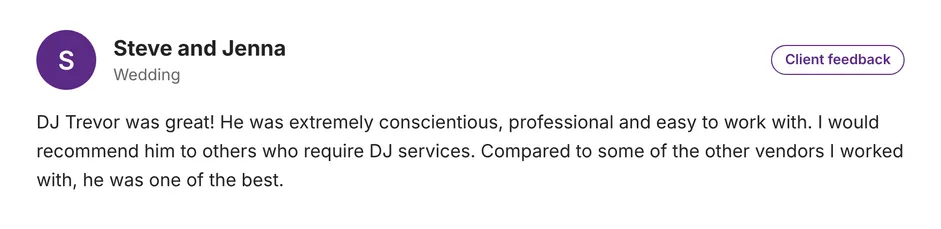
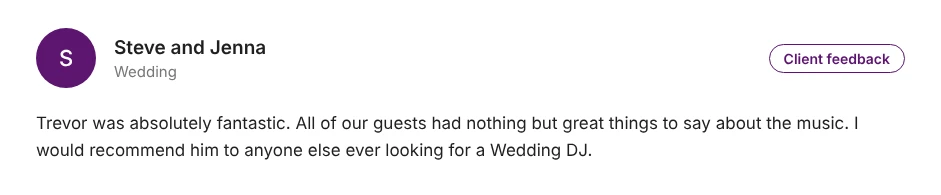
DJ Trevor page: use Steve and Jenna's own feedback text
Their card had Schari's wording; replaced with the message Steve sent.

Claude-Session: https://claude.ai/code/session_01XmGaww6WtWPkBt6bDqg7XF

diff --git a/trevor/index.html b/trevor/index.html
@@ -25,7 +25,7 @@ figcaption{display:flex;justify-content:space-between;align-items:center;padding
 .b-Feedback{background:#a21caf}html.embed header{padding:14px 12px 10px}html.embed h1{display:none}html.embed .sub{margin:0;font-size:13px}html.embed .yr{margin:22px 0 12px;font-size:22px;scroll-margin-top:90px}html.embed main{padding:6px 12px 16px}html.embed .c{margin-bottom:16px}html.embed footer{padding-bottom:16px}</style><script>if(window.parent!==window)document.documentElement.classList.add("embed")</script></head><body>
 <header><h1>DJ Trevor — Client Reviews</h1><p class="sub">2 reviews + 7 client feedback · June 2026 back to March 2025 · newest first</p></header>
 <div class="bar"><div class="in"><button class="on" data-f="all">All <b>9</b></button><button data-f="Knot">The Knot <b>1</b></button><button data-f="WeddingWire">WeddingWire <b>1</b></button><button data-f="Feedback">Client Feedback <b>7</b></button><div class="yrs"><a href="#y2026">2026</a><a href="#y2025">2025</a><a href="#yUndated">Undated</a></div></div></div>
-<main><h2 class="yr" id="y2026"><span>2026</span><small>2 reviews</small></h2><figure class="c" data-s="Knot"><figcaption><span class="b b-Knot">The Knot</span><time>Jun 22, 2026</time></figcaption><img loading="lazy" decoding="async" width="941" height="263" src="img/2026-06-22_Knot_Katherine-M.webp" alt="Review on The Knot, Jun 22, 2026"></figure><figure class="c" data-s="WeddingWire"><figcaption><span class="b b-WeddingWire">WeddingWire</span><time>Jun 13, 2026</time></figcaption><img loading="lazy" decoding="async" width="941" height="199" src="img/2026-06-13_WeddingWire_Abbie_93.webp" alt="Review on WeddingWire, Jun 13, 2026"></figure><h2 class="yr" id="y2025"><span>2025</span><small>5 reviews</small></h2><figure class="c" data-s="Feedback"><figcaption><span class="b b-Feedback">Client Feedback</span><time>Oct 18, 2025</time></figcaption><img loading="lazy" decoding="async" width="941" height="271" src="img/2025-10-18_Feedback_Leigha-and-Scott.webp" alt="Client feedback, Oct 18, 2025"></figure><figure class="c" data-s="Feedback"><figcaption><span class="b b-Feedback">Client Feedback</span><time>Oct 11, 2025</time></figcaption><img loading="lazy" decoding="async" width="941" height="222" src="img/2025-10-11_Feedback_Schari.webp" alt="Client feedback, Oct 11, 2025"></figure><figure class="c" data-s="Feedback"><figcaption><span class="b b-Feedback">Client Feedback</span><time>Sep 13, 2025</time></figcaption><img loading="lazy" decoding="async" width="941" height="229" src="img/2025-09-13_Feedback_Steve-and-Jenna.webp" alt="Client feedback, Sep 13, 2025"></figure><figure class="c" data-s="Feedback"><figcaption><span class="b b-Feedback">Client Feedback</span><time>Jun 21, 2025</time></figcaption><img loading="lazy" decoding="async" width="941" height="222" src="img/2025-06-21_Feedback_Peter-and-Gabrielle.webp" alt="Client feedback, Jun 21, 2025"></figure><figure class="c" data-s="Feedback"><figcaption><span class="b b-Feedback">Client Feedback</span><time>Mar 22, 2025</time></figcaption><img loading="lazy" decoding="async" width="941" height="287" src="img/2025-03-22_Feedback_Thomie.webp" alt="Client feedback, Mar 22, 2025"></figure><h2 class="yr" id="yUndated"><span>Undated</span><small>2 items</small></h2><figure class="c" data-s="Feedback"><figcaption><span class="b b-Feedback">Client Feedback</span><time>Date not listed</time></figcaption><img loading="lazy" decoding="async" width="941" height="200" src="img/undated_Feedback_Sonia-and-Zackary-Reagan.webp" alt="Client feedback, Date not listed"></figure><figure class="c" data-s="Feedback"><figcaption><span class="b b-Feedback">Client Feedback</span><time>Date not listed</time></figcaption><img loading="lazy" decoding="async" width="941" height="287" src="img/undated_Feedback_Kayla-H.webp" alt="Client feedback, Date not listed"></figure></main>
+<main><h2 class="yr" id="y2026"><span>2026</span><small>2 reviews</small></h2><figure class="c" data-s="Knot"><figcaption><span class="b b-Knot">The Knot</span><time>Jun 22, 2026</time></figcaption><img loading="lazy" decoding="async" width="941" height="263" src="img/2026-06-22_Knot_Katherine-M.webp" alt="Review on The Knot, Jun 22, 2026"></figure><figure class="c" data-s="WeddingWire"><figcaption><span class="b b-WeddingWire">WeddingWire</span><time>Jun 13, 2026</time></figcaption><img loading="lazy" decoding="async" width="941" height="199" src="img/2026-06-13_WeddingWire_Abbie_93.webp" alt="Review on WeddingWire, Jun 13, 2026"></figure><h2 class="yr" id="y2025"><span>2025</span><small>5 reviews</small></h2><figure class="c" data-s="Feedback"><figcaption><span class="b b-Feedback">Client Feedback</span><time>Oct 18, 2025</time></figcaption><img loading="lazy" decoding="async" width="941" height="271" src="img/2025-10-18_Feedback_Leigha-and-Scott.webp" alt="Client feedback, Oct 18, 2025"></figure><figure class="c" data-s="Feedback"><figcaption><span class="b b-Feedback">Client Feedback</span><time>Oct 11, 2025</time></figcaption><img loading="lazy" decoding="async" width="941" height="222" src="img/2025-10-11_Feedback_Schari.webp" alt="Client feedback, Oct 11, 2025"></figure><figure class="c" data-s="Feedback"><figcaption><span class="b b-Feedback">Client Feedback</span><time>Sep 13, 2025</time></figcaption><img loading="lazy" decoding="async" width="941" height="195" src="img/2025-09-13_Feedback_Steve-and-Jenna.webp" alt="Client feedback, Sep 13, 2025"></figure><figure class="c" data-s="Feedback"><figcaption><span class="b b-Feedback">Client Feedback</span><time>Jun 21, 2025</time></figcaption><img loading="lazy" decoding="async" width="941" height="222" src="img/2025-06-21_Feedback_Peter-and-Gabrielle.webp" alt="Client feedback, Jun 21, 2025"></figure><figure class="c" data-s="Feedback"><figcaption><span class="b b-Feedback">Client Feedback</span><time>Mar 22, 2025</time></figcaption><img loading="lazy" decoding="async" width="941" height="287" src="img/2025-03-22_Feedback_Thomie.webp" alt="Client feedback, Mar 22, 2025"></figure><h2 class="yr" id="yUndated"><span>Undated</span><small>2 items</small></h2><figure class="c" data-s="Feedback"><figcaption><span class="b b-Feedback">Client Feedback</span><time>Date not listed</time></figcaption><img loading="lazy" decoding="async" width="941" height="200" src="img/undated_Feedback_Sonia-and-Zackary-Reagan.webp" alt="Client feedback, Date not listed"></figure><figure class="c" data-s="Feedback"><figcaption><span class="b b-Feedback">Client Feedback</span><time>Date not listed</time></figcaption><img loading="lazy" decoding="async" width="941" height="287" src="img/undated_Feedback_Kayla-H.webp" alt="Client feedback, Date not listed"></figure></main>
 <footer>“Client Feedback” entries are notes clients sent to Double Platinum Celebrations directly, not reviews posted on a review site. Their dates are event dates where the client gave one.</footer>
 <script>
 document.querySelectorAll('.bar button').forEach(b=>b.onclick=()=>{const f=b.dataset.f;document.querySelectorAll('.bar button').forEach(x=>x.classList.toggle('on',x===b));
